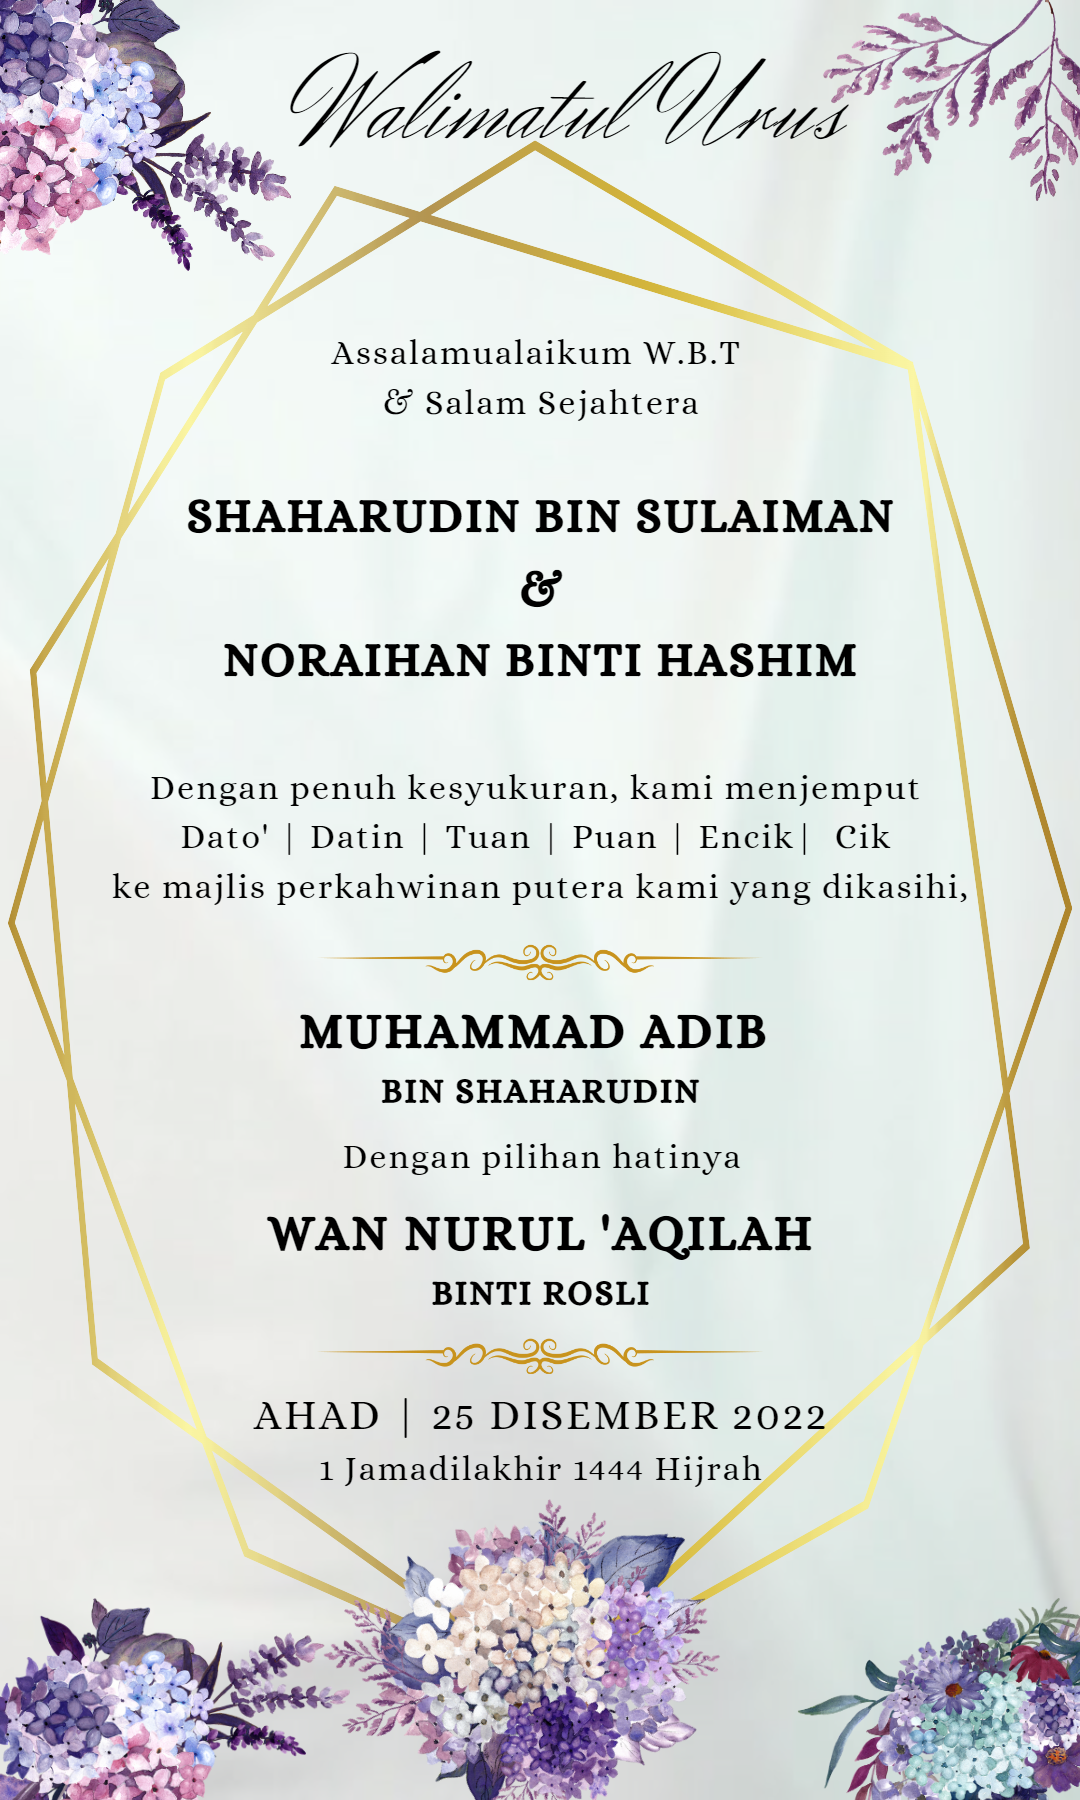
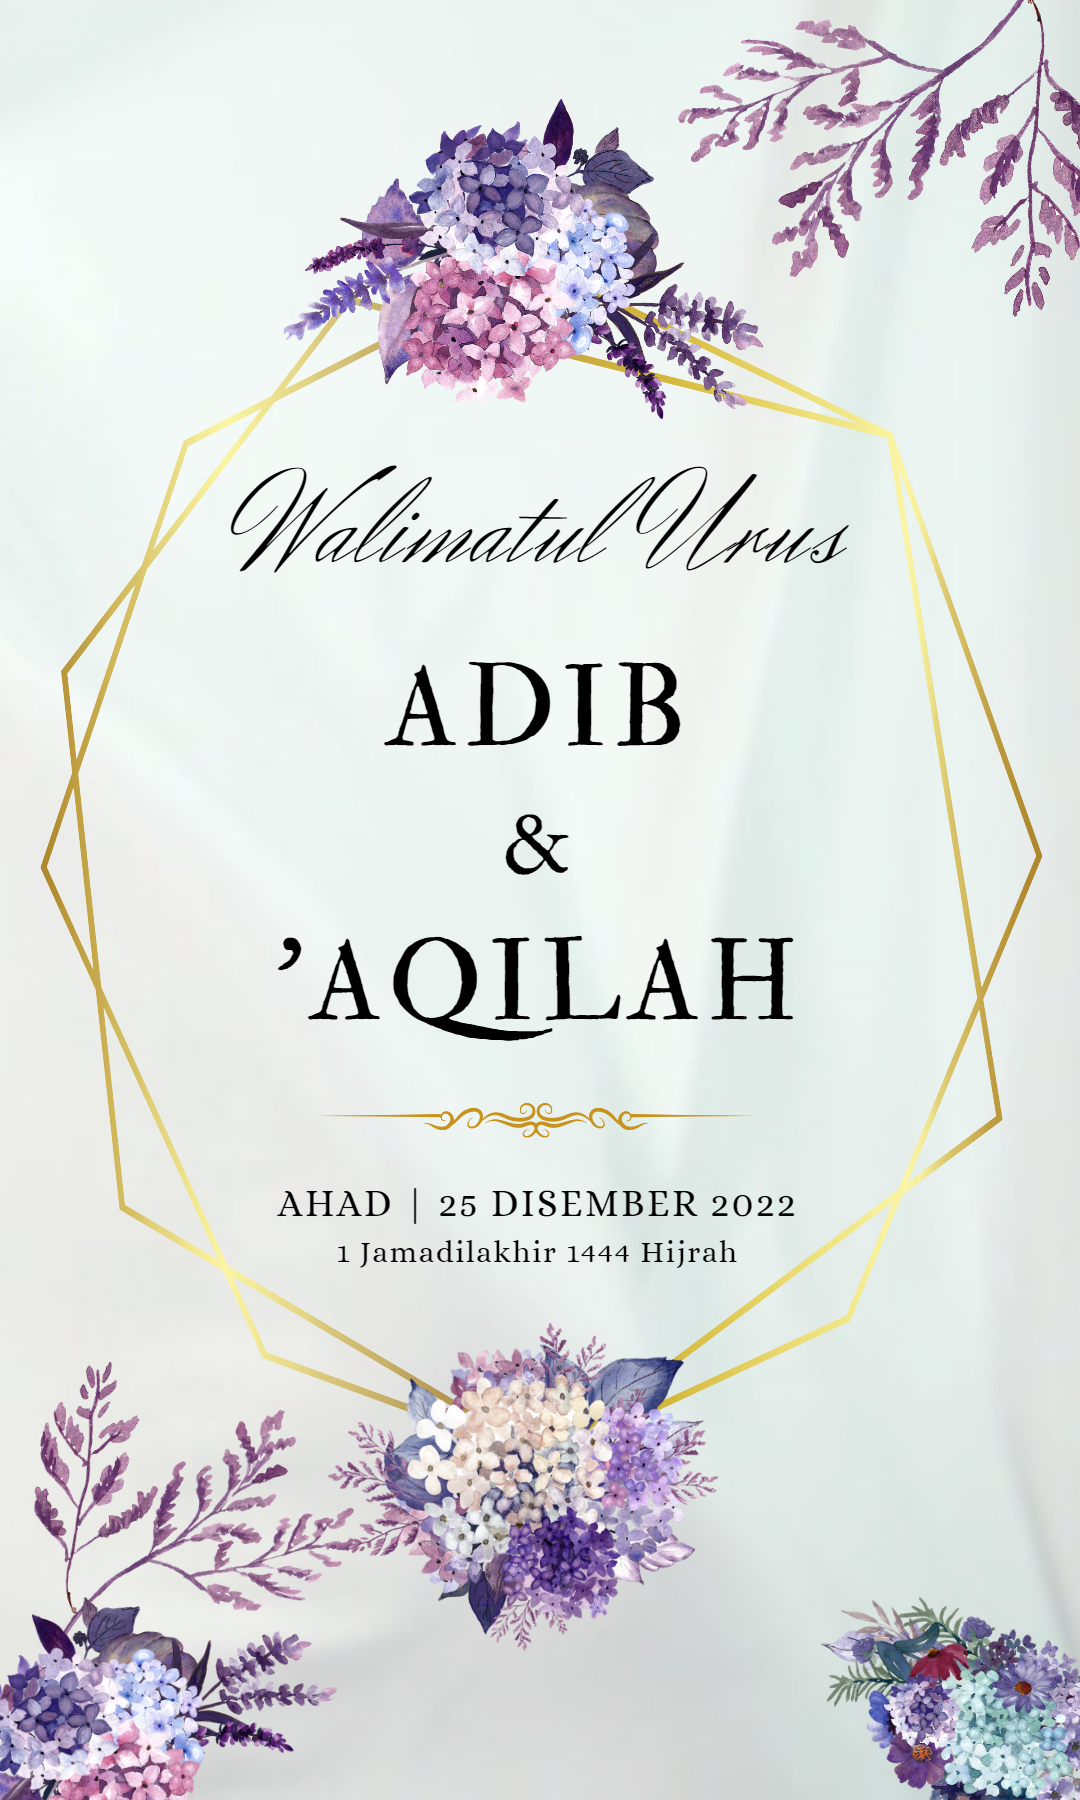
4

diff --git a/main.html b/main.html
@@ -17,7 +17,7 @@
 <!-- Body Content -->  
     <div class="container-fluid">
       <div>
-        <img src="assets/wedding_card.png">
+        <img src="assets/wedding_card1.png">
     </div>
     </div>
 
